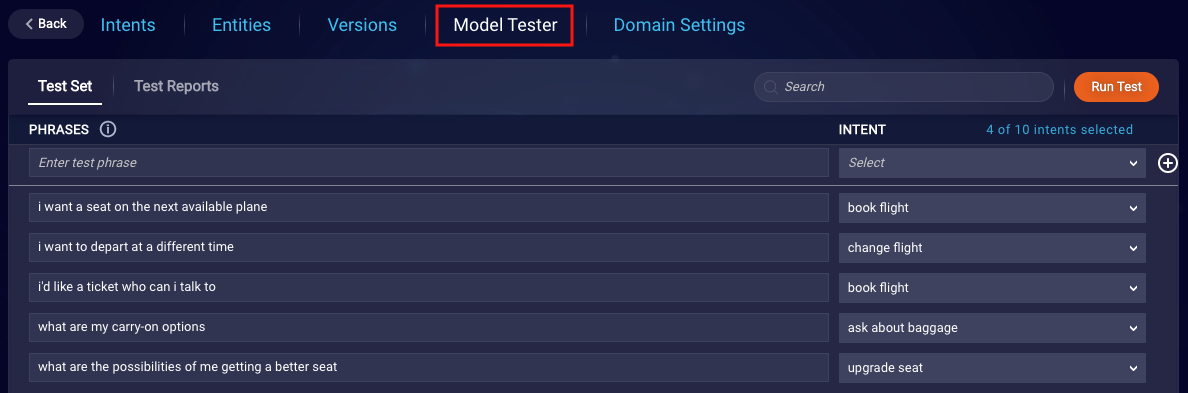
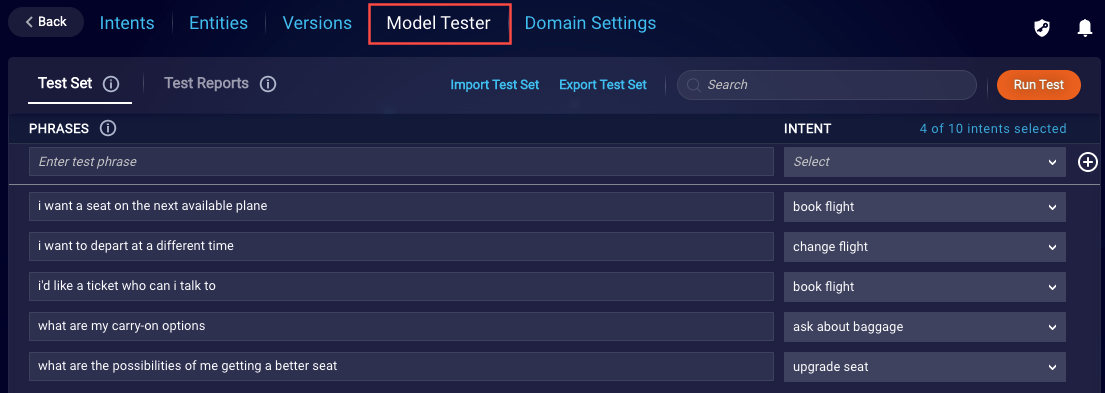
BA-6969 New import test set in Model Tester

diff --git a/pages/Documents/ConversationalAI/IntentBuilder/Testing/advanced-model-testing.md b/pages/Documents/ConversationalAI/IntentBuilder/Testing/advanced-model-testing.md
@@ -33,8 +33,12 @@ The general workflow for using the Model Tester is this:
 You can download test reports and comparison reports.
 
 ### Add phrases to the test set
-In a domain, there are three ways to add a phrase to the Model Tester’s test set:
+In a domain, there are several ways to add a phrase to the Model Tester’s test set:
 
+* Click **Import Test Set** and import a specified file.
+    <img class="fancyimage" style="width:600px" src="img/ConvoBuilder/ib_model_tester_addphrase4.png">
+    Use the format shown below in the import file. Use the first line to name the columns as shown; this line is ignored during the import.
+    <img class="fancyimage" style="width:600px" src="img/ConvoBuilder/ib_model_tester_addphrase5.png">
 * Click **Model Tester** in the upper-left corner, and enter the phrase manually on the **Test Set** tab.
     <img class="fancyimage" style="width:300px" src="img/ConvoBuilder/ib_model_tester_addphrase1.png">
 * In **Test User Input** (where [single-phrase testing](intent-builder-testing-single-utterance-testing.html) is performed), click <img style="width:25px" src="img/ConvoBuilder/icon_ib_quick_add.png"> (quick add) next to the sample utterance.
